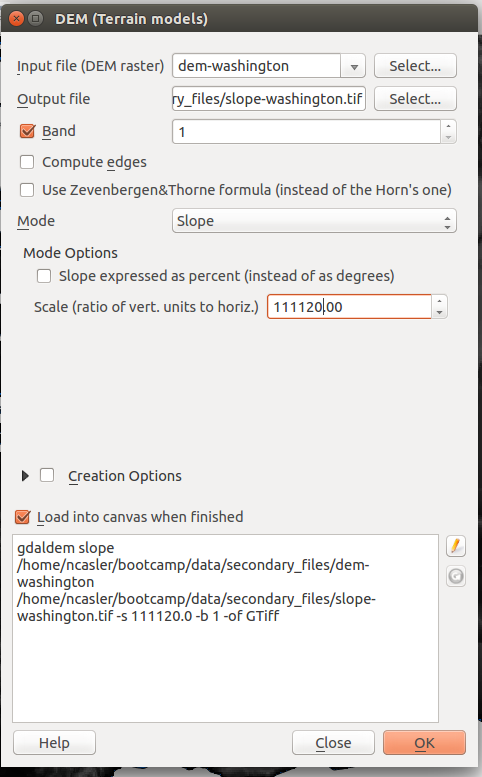
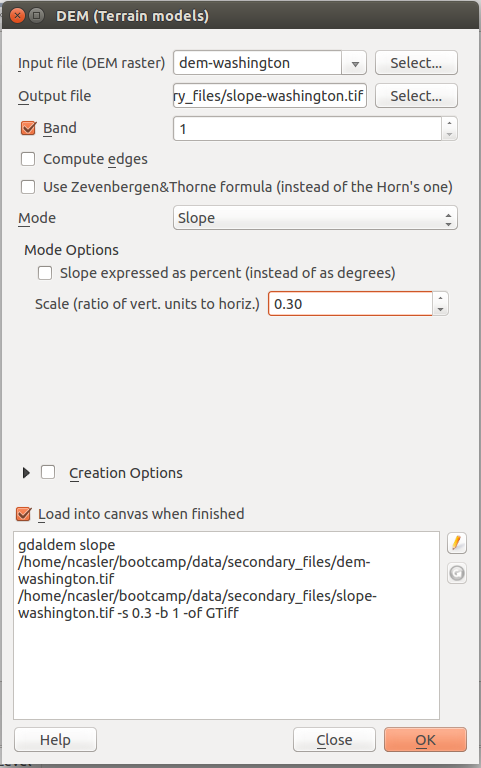
Updated case study

Changed region(s): [[0.0, 0.0, 1.0, 1.0]]

diff --git a/_site/data analysis/case-study/index.html b/_site/data analysis/case-study/index.html
@@ -934,11 +934,23 @@
   <img src="/bootcamp/assets/images/dem-load.png" alt="dem-load" /></li>
     </ul>
   </li>
+  <li>Project the dem to EPSG:2927
+    <ul>
+      <li>In the top menu, go to Raster &gt; Projections &gt; Warp (Reproject)</li>
+      <li>Use the following options</li>
+      <li>Input File: <em>W140N90</em></li>
+      <li>Output File: <em>secondary_files/dem-project.tif</em></li>
+      <li>Source SRS: <em>EPSG:4326</em></li>
+      <li>Resampling Method: <em>Near</em></li>
+      <li>No data values: <em>0</em>
+ <img src="/bootcamp/assets/images/project-dem.png" alt="project-dem" /></li>
+    </ul>
+  </li>
   <li>Clip the dem to the shapefile
     <ul>
       <li>In the top menu, select Raster &gt; Extraction &gt; Clipper</li>
       <li>In the window, set the following options:</li>
-      <li>Input file: W140N90</li>
+      <li>Input file: dem-project.tif</li>
       <li>Output file: dem-washington.tif</li>
       <li>No data value: 0</li>
       <li>Clipping Mode: Mask layer &gt; washington</li>
@@ -953,17 +965,12 @@
       <li>Input file: dem-washington</li>
       <li>Output file: slope-washington.tif</li>
       <li>Mode: Slope</li>
-      <li>Scale: 111120.0</li>
+      <li>Scale: 0.30</li>
       <li>Load into canvas when finished
   <img src="/bootcamp/assets/images/create-slope.png" alt="create-slope" /></li>
     </ul>
   </li>
 </ol>
-
-<h4 id="create-binary-landslide-raster">Create binary landslide raster</h4>
-
-<p>From the iPlant Data Store, download the landslide-inventory.shp
-SEE DATA PREP</p>
 
 <h3 id="data-analysis">Data Analysis</h3>
 
@@ -1022,6 +1029,31 @@ SEE DATA PREP</p>
     </tr>
   </tbody>
 </table>
+
+<p>In order to reclass our slope layer into something useful, we will use the grass <em>r.reclass</em> tool</p>
+
+<p>The r.reclass tool reads text files which define the classification rules(rule files). For this example, our rule fill will have the following contents:</p>
+
+<h5 id="slope-ruletxt"><em>slope-rule.txt</em></h5>
+<pre><code>0 thru 2.99 = 1
+3 thru 4.99 = 2
+5 thru 9.99 = 3
+10 thru 14.99 = 4
+15 thru 19.99 = 5
+20 thru 29.99 = 6 
+30 thru 39.99 = 7
+40 thru 90 = 8
+</code></pre>
+
+<p>Once we have created the slope rule file. We can select the r.reclass tool from the Processing Toolbox.</p>
+
+<p>In the processing toolbox, select <em>GRASS commands</em> &gt; <em>Raster</em> &gt; &gt; <em>r.reclass</em></p>
+
+<p>We will use the following settings for the reclassify tool:
+  * Input Raster: <em>slope-washington</em>
+  * File containing reclass rules: <em>slope-rules.txt</em>
+  * Output raster layer: <em>slope-reclass.tif</em> (NOTE: select <em>Save to file…</em> or else QGIS will not create a permanent output)
+  <img src="/bootcamp/assets/images/slope-reclass.png" alt="slope-reclass" /></p>
 
 <h4 id="susceptibility">Susceptibility</h4>
 

diff --git a/_posts/2004-data-analysis/2004-12-31-case-study.md b/_posts/2004-data-analysis/2004-12-31-case-study.md
@@ -75,31 +75,37 @@ Open Quantum GIS
   * In the left toolbar, select *Add Raster Layer*
   * Select *source_files/W140N90.DEM*
   ![dem-load]({{site.baseurl}}{{ASSET_PATH}}/images/dem-load.png)
-7. Clip the dem to the shapefile
+7. Project the dem to EPSG:2927
+  * In the top menu, go to Raster > Projections > Warp (Reproject)
+  * Use the following options
+    + Input File: *W140N90*
+    + Output File: *secondary_files/dem-project.tif*
+    + Source SRS: *EPSG:4326*
+    + Resampling Method: *Near*
+    + No data values: *0*
+    ![project-dem]({{site.baseurl}}{{ASSET_PATH}}/images/project-dem.png)
+8. Clip the dem to the shapefile
   * In the top menu, select Raster > Extraction > Clipper
   * In the window, set the following options:
-    + Input file: W140N90
+    + Input file: dem-project.tif
     + Output file: dem-washington.tif
     + No data value: 0
     + Clipping Mode: Mask layer > washington
     + Load into canvas when finished
   ![dem-washington]({{site.baseurl}}{{ASSET_PATH}}/images/dem-washington.png)
-8. Remove the W140N90 layer
+9. Remove the W140N90 layer
   ![dem-washington-display]({{site.baseurl}}{{ASSET_PATH}}/images/dem-washington-display.png)
-9. Create a slope surface
+10. Create a slope surface
   * Input file: dem-washington
   * Output file: slope-washington.tif
   * Mode: Slope
-  * Scale: 111120.0
+  * Scale: 0.30
   * Load into canvas when finished
   ![create-slope]({{site.baseurl}}{{ASSET_PATH}}/images/create-slope.png)
 
 
 
-#### Create binary landslide raster
 
-From the iPlant Data Store, download the landslide-inventory.shp
-SEE DATA PREP
 
 ### Data Analysis
 
@@ -117,6 +123,32 @@ Reclassify inputs:
 | 6 || 20-30&deg; |
 | 7 || 30-40&deg; |
 | 8 || > 40&deg;  |
+
+In order to reclass our slope layer into something useful, we will use the grass *r.reclass* tool
+
+The r.reclass tool reads text files which define the classification rules(rule files). For this example, our rule fill will have the following contents:
+
+#####*slope-rule.txt*
+~~~ 
+0 thru 2.99 = 1
+3 thru 4.99 = 2
+5 thru 9.99 = 3
+10 thru 14.99 = 4
+15 thru 19.99 = 5
+20 thru 29.99 = 6 
+30 thru 39.99 = 7
+40 thru 90 = 8
+~~~
+
+Once we have created the slope rule file. We can select the r.reclass tool from the Processing Toolbox.
+
+In the processing toolbox, select *GRASS commands* > *Raster* > > *r.reclass*
+
+We will use the following settings for the reclassify tool:
+  * Input Raster: *slope-washington*
+  * File containing reclass rules: *slope-rules.txt*
+  * Output raster layer: *slope-reclass.tif* (NOTE: select *Save to file...* or else QGIS will not create a permanent output)
+  ![slope-reclass]({{site.baseurl}}{{ASSET_PATH}}/images/slope-reclass.png)
 
 
 ####Susceptibility
@@ -152,6 +184,7 @@ Check THIS STEP AGAINST REFERENCES
 |   6      || 60-75 in |
 |   7      || 75-90 in |
 |   8      || > 90 in  |
+
 
 ### Visualization
 
